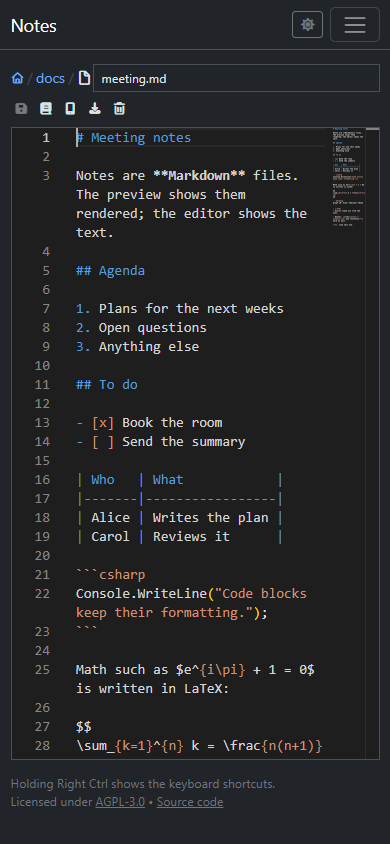
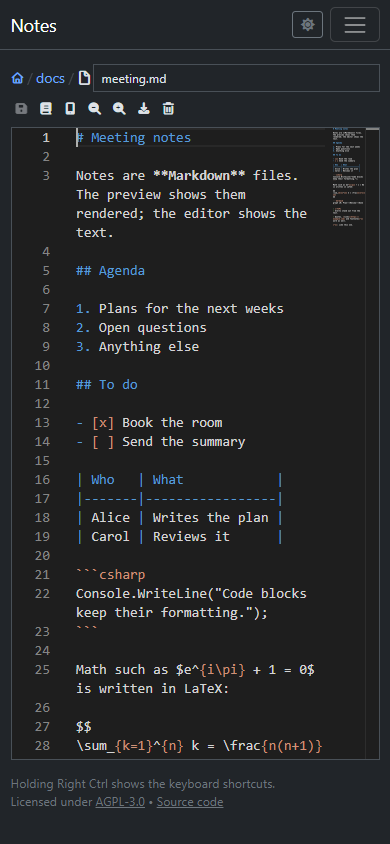
Added zoom in/out buttons to editor

diff --git a/notes/wwwroot/js/editor.js b/notes/wwwroot/js/editor.js
@@ -8,11 +8,114 @@
 //       onBeforeCreate    function(monaco), called before the editor is made, e.g. to set up a language
 //   })                    returns a promise of the editor
 //
-// Every editor gets the same keys: Escape leaves it, Alt+Z toggles word wrap, Ctrl+Plus/Minus/0 zoom the editor (not the page) while it is focused.
+// Every editor gets the same keys: Escape leaves it, Alt+Z toggles word wrap, Ctrl+Plus/Minus/0 (and Ctrl+scroll) zoom the editor (not the page) while it is focused.
+//
+// The zoom is shared by all editors of the page, also by text fields that are editors (see bindZoomKeys), and kept in the browser:
+//   editorZoom.zoomIn(), zoomOut(), reset()
+//   editorZoom.factor             1 is the usual size
+//   editorZoom.canZoomIn, canZoomOut
+//   editorZoom.onChange(listener) called with the factor now and on every change
+//   editorZoom.bindZoomKeys(element)  Ctrl+Plus/Minus/0 and Ctrl+scroll on that element zoom
+// The zoom buttons of the toolbar, if the page has them, are disabled at the limits. So this script comes after the toolbar.
 //
 // Monaco's loader defines a global AMD `define`, which makes the Bootstrap bundle register as a module
 // instead of setting window.bootstrap. So Monaco is only loaded once all page scripts (incl. Bootstrap) have run.
 (function () {
+    const ZOOM_KEY = 'notes.editorZoom';
+    const ZOOM_STEP = 0.1;
+    const MIN_ZOOM_LEVEL = -5;
+    const MAX_ZOOM_LEVEL = 10;
+    const MONACO_FONT_SIZE = 14; // explicit, as Monaco's own default differs between systems
+
+    // The zoom in steps of ZOOM_STEP, so that zooming in and out again gives exactly the size it was
+    let zoomLevel = readZoomLevel();
+    const zoomListeners = [];
+
+    // localStorage can throw (blocked storage, private mode), and then the zoom just isn't kept
+    function readZoomLevel() {
+        try {
+            const level = parseInt(localStorage.getItem(ZOOM_KEY), 10);
+            return Number.isNaN(level) ? 0 : Math.min(MAX_ZOOM_LEVEL, Math.max(MIN_ZOOM_LEVEL, level));
+        } catch {
+            return 0;
+        }
+    }
+
+    function setZoomLevel(level) {
+        level = Math.min(MAX_ZOOM_LEVEL, Math.max(MIN_ZOOM_LEVEL, level));
+        if (level === zoomLevel)
+            return;
+        zoomLevel = level;
+        try {
+            localStorage.setItem(ZOOM_KEY, String(level));
+        } catch {
+        }
+        for (const listener of zoomListeners)
+            listener(window.editorZoom.factor);
+    }
+
+    // Is the key Plus, Minus or 0, with Ctrl (and Shift or not, as Plus needs Shift on some layouts)?
+    function zoomKeyAction(e) {
+        if (!(e.ctrlKey || e.metaKey) || e.altKey)
+            return null;
+        if (e.key === '+' || e.key === '=' || e.code === 'NumpadAdd')
+            return 'in';
+        if (e.key === '-' || e.code === 'NumpadSubtract')
+            return 'out';
+        if (e.key === '0' || e.code === 'Numpad0')
+            return 'reset';
+        return null;
+    }
+
+    window.editorZoom = {
+        get factor() { return 1 + zoomLevel * ZOOM_STEP; },
+        get canZoomIn() { return zoomLevel < MAX_ZOOM_LEVEL; },
+        get canZoomOut() { return zoomLevel > MIN_ZOOM_LEVEL; },
+        zoomIn() { setZoomLevel(zoomLevel + 1); },
+        zoomOut() { setZoomLevel(zoomLevel - 1); },
+        reset() { setZoomLevel(0); },
+        onChange(listener) {
+            zoomListeners.push(listener);
+            listener(this.factor);
+        },
+        bindZoomKeys(element) {
+            element.addEventListener('keydown', function (e) {
+                const action = zoomKeyAction(e);
+                if (!action)
+                    return;
+                e.preventDefault();
+                e.stopPropagation();
+                if (action === 'in')
+                    window.editorZoom.zoomIn();
+                else if (action === 'out')
+                    window.editorZoom.zoomOut();
+                else
+                    window.editorZoom.reset();
+            }, true);
+            // Instead of the browser's zoom of the whole page
+            element.addEventListener('wheel', function (e) {
+                if (!e.ctrlKey || e.deltaY === 0)
+                    return;
+                e.preventDefault();
+                e.stopPropagation();
+                if (e.deltaY < 0)
+                    window.editorZoom.zoomIn();
+                else
+                    window.editorZoom.zoomOut();
+            }, { capture: true, passive: false });
+        }
+    };
+
+    // The zoom buttons of the toolbar (ToolbarButton.ZoomIn/ZoomOut), on the pages that have them
+    window.editorZoom.onChange(function () {
+        const zoomInButton = document.getElementById('zoom-in-button');
+        const zoomOutButton = document.getElementById('zoom-out-button');
+        if (zoomInButton)
+            setButtonDisabled(zoomInButton, window.editorZoom.canZoomIn ? null : 'The editor is zoomed in as far as it goes.');
+        if (zoomOutButton)
+            setButtonDisabled(zoomOutButton, window.editorZoom.canZoomOut ? null : 'The editor is zoomed out as far as it goes.');
+    });
+
     let loading = null;
 
     function loadMonaco(basePath) {
@@ -53,22 +156,6 @@
             const isOn = editor.getOption(monaco.editor.EditorOption.wordWrap) !== 'off';
             editor.updateOptions({ wordWrap: isOn ? 'off' : 'on' });
         });
-
-        // Ctrl+Plus / Ctrl+Minus / Ctrl+0 zoom the editor instead of the page while it is focused
-        const zoomBindings = [
-            ['editor.action.fontZoomIn', [monaco.KeyCode.Equal, monaco.KeyCode.NumpadAdd]],
-            ['editor.action.fontZoomOut', [monaco.KeyCode.Minus, monaco.KeyCode.NumpadSubtract]],
-            ['editor.action.fontZoomReset', [monaco.KeyCode.Digit0, monaco.KeyCode.Numpad0]]
-        ];
-        for (const [actionId, keys] of zoomBindings) {
-            for (const key of keys) {
-                for (const shift of [0, monaco.KeyMod.Shift]) {
-                    editor.addCommand(monaco.KeyMod.CtrlCmd | shift | key, function () {
-                        editor.getAction(actionId).run();
-                    });
-                }
-            }
-        }
     }
 
     // Monaco's theme follows that of the page (see theme.js); it is global to all editors
@@ -92,7 +179,8 @@
             readOnlyMessage: { value: options.readOnlyMessage || '' },
             automaticLayout: true,
             wordWrap: 'on',
-            mouseWheelZoom: true // Ctrl+scroll zooms the editor
+            fontSize: Math.round(MONACO_FONT_SIZE * window.editorZoom.factor)
+            // Monaco's own zoom (mouseWheelZoom, its zoom actions) is left off: it isn't kept, and would add to this one
         };
         if (options.uri)
             settings.model = monaco.editor.createModel(options.value, options.language, monaco.Uri.parse(options.uri));
@@ -103,6 +191,10 @@
 
         const editor = monaco.editor.create(element, settings);
         bindKeys(editor);
+        window.editorZoom.bindZoomKeys(element);
+        window.editorZoom.onChange(function (factor) {
+            editor.updateOptions({ fontSize: Math.round(MONACO_FONT_SIZE * factor) });
+        });
         return editor;
     };
 })();

diff --git a/tests/notes.Tests.Ui/EntryUiTests.cs b/tests/notes.Tests.Ui/EntryUiTests.cs
@@ -60,6 +60,36 @@ public sealed class EntryUiTests(UiFixture fixture) : UiTest(fixture), IClassFix
     }
 
     [Fact]
+    public async Task Zooming_is_shared_by_both_views_kept_and_stops_at_its_limit()
+    {
+        const string MonacoFontSize = "() => window.editor.getOption(monaco.editor.EditorOption.fontSize)";
+        const string SimpleFontSize = "() => parseFloat(getComputedStyle(document.getElementById('simple-editor')).fontSize)";
+        await OpenAsync("/docs/a.md?edit");
+        await WaitForEditorAsync();
+        double usualMonacoSize = await Page.EvaluateAsync<double>(MonacoFontSize);
+
+        await Page.Locator("#zoom-in-button").ClickAsync();
+        Assert.True(await Page.EvaluateAsync<double>(MonacoFontSize) > usualMonacoSize);
+
+        // The simple view has the same zoom
+        double usualSimpleSize = await Page.EvaluateAsync<double>("() => parseFloat(getComputedStyle(document.documentElement).fontSize)");
+        await Page.Locator("#simple-view-button").ClickAsync();
+        Assert.True(await Page.EvaluateAsync<double>(SimpleFontSize) > usualSimpleSize);
+
+        // Kept for the next page, and back to the usual size with Ctrl+0 inside the editor
+        await OpenAsync("/docs/a.md?edit");
+        Assert.True(await Page.EvaluateAsync<double>(SimpleFontSize) > usualSimpleSize);
+        await Page.Locator("#simple-editor").FocusAsync();
+        await Page.Keyboard.PressAsync("Control+0");
+        Assert.Equal(usualSimpleSize, await Page.EvaluateAsync<double>(SimpleFontSize));
+
+        // Zooming out as far as it goes disables the button, with the reason
+        await Page.EvaluateAsync("() => { while (editorZoom.canZoomOut) editorZoom.zoomOut(); }");
+        await ExpectDisabledWithReason(Page.Locator("#zoom-out-button"));
+        await Expect(Page.Locator("#zoom-in-button")).ToHaveAttributeAsync("aria-disabled", "false");
+    }
+
+    [Fact]
     public async Task A_file_alice_may_not_change_is_read_only_and_save_says_why()
     {
         // (Markdown that can't be changed is only shown rendered)

diff --git a/tests/notes.Tests.Ui/UploadAndConfigUiTests.cs b/tests/notes.Tests.Ui/UploadAndConfigUiTests.cs
@@ -150,4 +150,24 @@ public sealed class UploadAndConfigUiTests(UiFixture fixture) : UiTest(fixture),
         Assert.Contains("u:carol", Tree.ReadConfig("docs"));
         await admin.DisposeAsync();
     }
+
+    [Fact]
+    public async Task The_permissions_editor_zooms_like_the_editor_of_a_file()
+    {
+        const string MonacoFontSize = "() => window.editor.getOption(monaco.editor.EditorOption.fontSize)";
+        IBrowserContext admin = await NewContextAsync(Users.Admin);
+        IPage page = await admin.NewPageAsync();
+        await page.GotoAsync("/docs?config");
+        await page.WaitForFunctionAsync("() => window.editor && typeof window.editor.getValue === 'function'");
+        double usualSize = await page.EvaluateAsync<double>(MonacoFontSize);
+
+        await page.Locator("#zoom-out-button").ClickAsync();
+        Assert.True(await page.EvaluateAsync<double>(MonacoFontSize) < usualSize);
+
+        // The same zoom in the editor of a file
+        await page.GotoAsync("/docs/a.md?edit");
+        await page.WaitForFunctionAsync("() => window.editor && typeof window.editor.getValue === 'function'");
+        Assert.True(await page.EvaluateAsync<double>(MonacoFontSize) < usualSize);
+        await admin.DisposeAsync();
+    }
 }

diff --git a/notes/Features/Components/Toolbar/_Toolbar.cshtml.cs b/notes/Features/Components/Toolbar/_Toolbar.cshtml.cs
@@ -55,6 +55,14 @@ public sealed record ToolbarButton(
     public static ToolbarButton SimpleView()
         => new(Id: "simple-view-button", Icon: "fa-solid fa-mobile-screen-button", Label: "Switch to the simple editor (for phones)", Key: "!+E", OnClick: "toggleSimpleView()");
 
+    /// <summary>Makes the text of the editor larger (see editorZoom in editor.js, which keeps the zoom). Plus is typed with Shift on some layouts.</summary>
+    public static ToolbarButton ZoomIn()
+        => new(Id: "zoom-in-button", Icon: "fa-solid fa-magnifying-glass-plus", Label: "Zoom in", Key: "!+ !++", OnClick: "editorZoom.zoomIn()");
+
+    /// <summary>Makes the text of the editor smaller.</summary>
+    public static ToolbarButton ZoomOut()
+        => new(Id: "zoom-out-button", Icon: "fa-solid fa-magnifying-glass-minus", Label: "Zoom out", Key: "!-", OnClick: "editorZoom.zoomOut()");
+
     /// <summary>The bytes of a media file as the browser shows them, instead of the page around them.</summary>
     public static ToolbarButton Raw()
         => new(Id: "raw-button", Icon: "fa-regular fa-file-image", Label: "View the raw image", Key: "^u", Href: "?raw");

diff --git a/docs/administration/permissions.md b/docs/administration/permissions.md
@@ -4,7 +4,7 @@ Who may see and change what is written down in a file called `.config.json` in e
 
 ## Editing
 
-Admins have a gear button below the breadcrumb of every directory and file (leftmost in a directory, right of Save in a file; shortcut `c`). It opens the permissions of that entry at `?config`, in an editor. Save checks the text completely and says what is wrong, and saves it exactly as written (nothing is reformatted). Reset puts the default into the editor (nothing changes until Save).
+Admins have a gear button below the breadcrumb of every directory and file (leftmost in a directory, right of Save in a file; shortcut `c`). It opens the permissions of that entry at `?config`, in an editor. Save checks the text completely and says what is wrong, and saves it exactly as written (nothing is reformatted). Reset puts the default into the editor (nothing changes until Save). The magnifying glass icons zoom the editor, as in the [editor of a file](../usage/viewing-and-editing.md#the-editors), with which it shares the zoom.
 
 - For a **directory** the editor shows its whole `.config.json`.
 - For a **file** it shows only that file's entry in the `.config.json` of the directory it is in, without the `name`.

diff --git a/docs/usage.md b/docs/usage.md
@@ -4,7 +4,7 @@ The app shows a folder of notes in the browser: directories and files, with Mark
 
 ![A directory listing](screenshots/directory-desktop.png)
 
-- [Browsing](using/browsing.md): directories, the address of everything, logging in, light and dark.
-- [Viewing and editing files](using/viewing-and-editing.md): the Markdown preview, the editors, images and other media.
-- [Organizing](using/organizing.md): creating, uploading, renaming, deleting, downloading, and copying or moving several entries at once.
-- [Keyboard](using/keyboard.md): how the shortcuts work.
+- [Browsing](usage/browsing.md): directories, the address of everything, logging in, light and dark.
+- [Viewing and editing files](usage/viewing-and-editing.md): the Markdown preview, the editors, images and other media.
+- [Organizing](usage/organizing.md): creating, uploading, renaming, deleting, downloading, and copying or moving several entries at once.
+- [Keyboard](usage/keyboard.md): how the shortcuts work.

diff --git a/docs/usage/viewing-and-editing.md b/docs/usage/viewing-and-editing.md
@@ -41,6 +41,8 @@ Every text file can be edited in the browser. There are two editors, and the cho
 
 The phone icon in the toolbar switches to the simple editor, the keyboard icon back to the code editor. The floppy disk icon (or Ctrl+S) saves; it is only blue while there is something to save. Leaving the page with unsaved changes asks first.
 
+The magnifying glass icons (or Alt+Plus and Alt+Minus) make the text of the editor larger and smaller; inside the editor, Ctrl+Plus, Ctrl+Minus and Ctrl+scrolling do the same, and Ctrl+0 goes back to the usual size. Both editors share the zoom, and it is kept in the browser.
+
 A file that may be read but not changed opens in the editor as read-only, and the Save icon says why it can't be used.
 
 ## Images, video, audio and PDF

diff --git a/README.md b/README.md
@@ -13,7 +13,7 @@ The whole setup (Cloudflare tunnel, Keycloak, the first admin) is in [Deployment
 
 ## Documentation
 
-- [Using the app](docs/using.md): browsing, viewing and editing files, organizing them, the keyboard.
+- [Using the app](docs/usage.md): browsing, viewing and editing files, organizing them, the keyboard.
 - [Administration](docs/administration.md): deployment, sessions, permissions, the kill switch.
 - [Development](docs/development.md): the principles of this repository, how the app is put together, running it locally, the tests, and the security specification.
 
